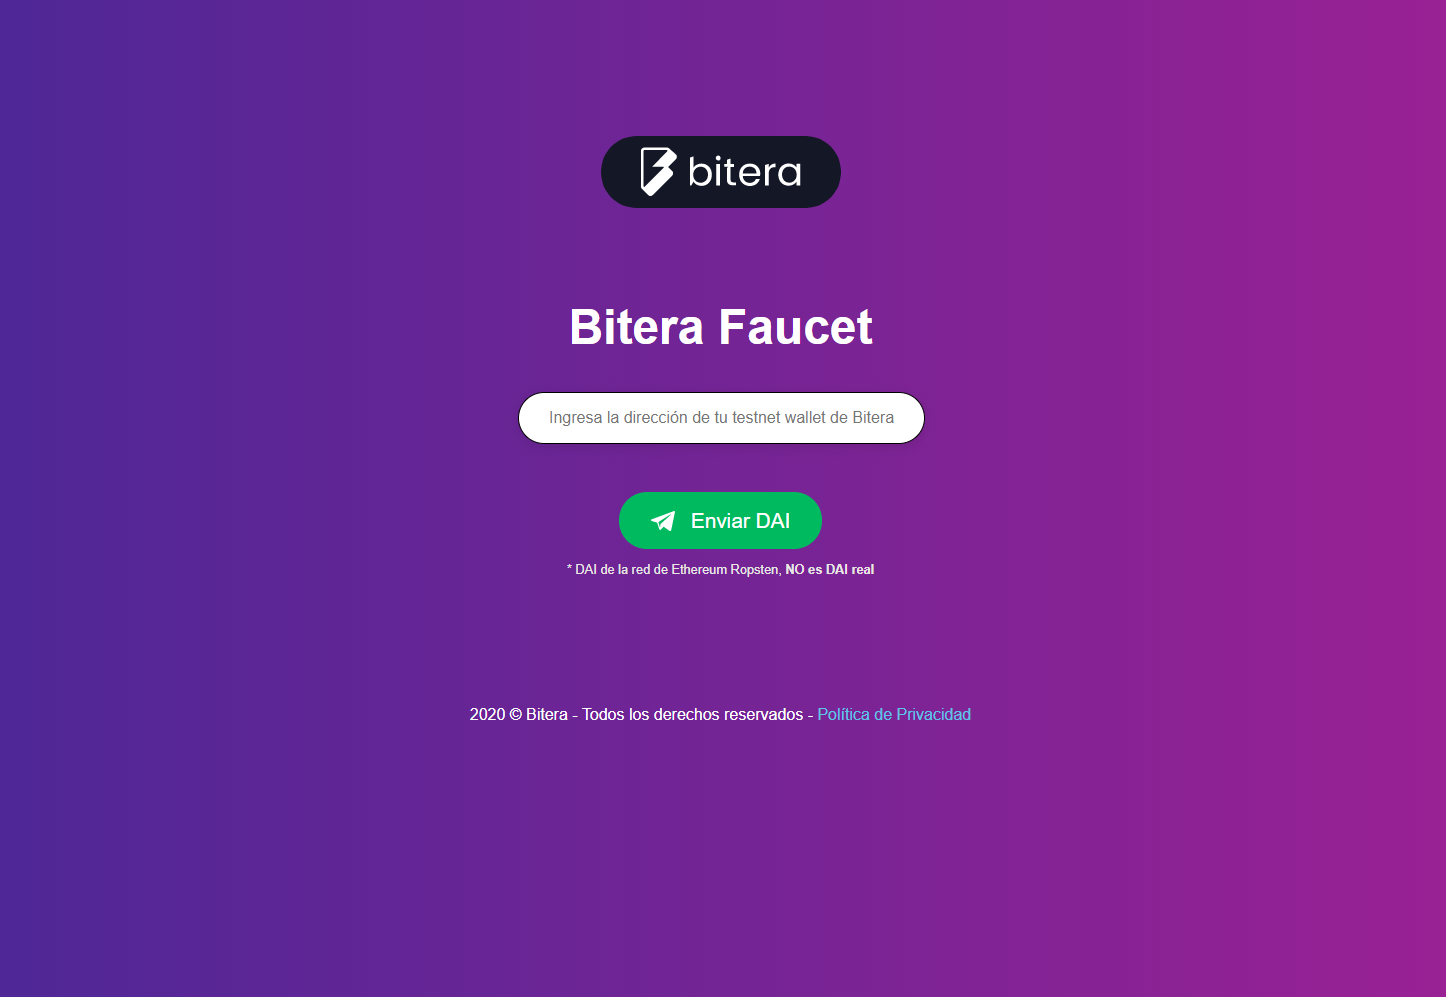
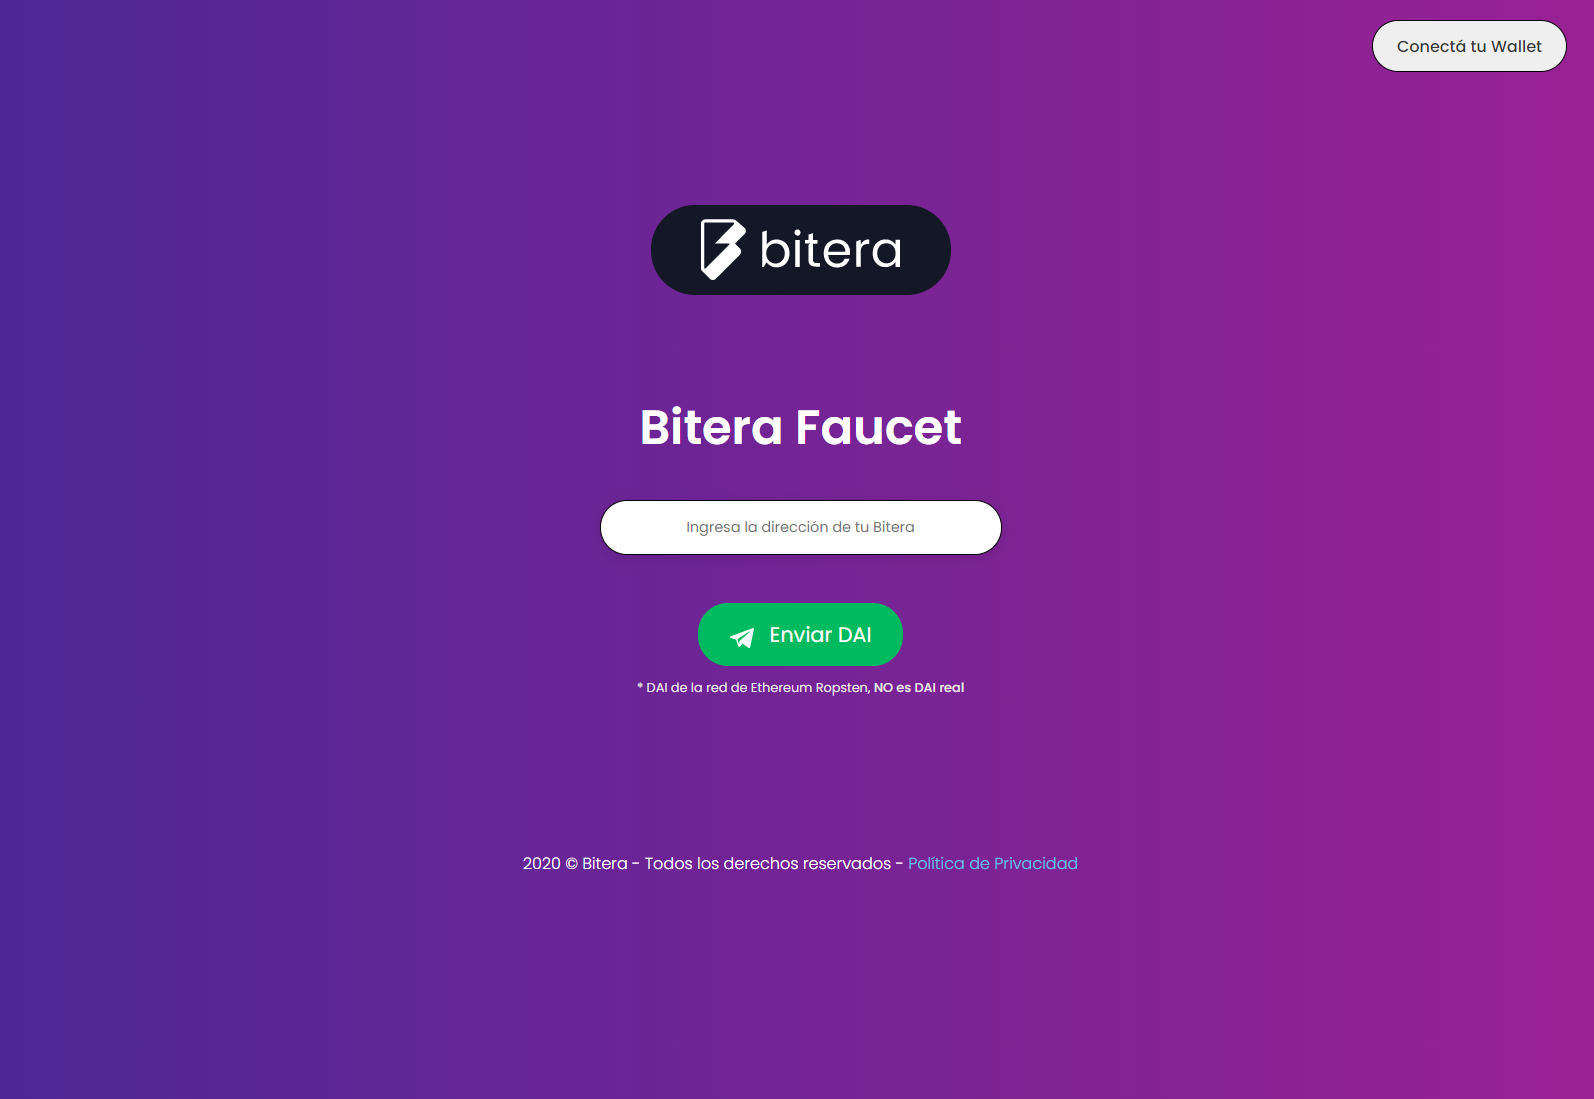
Update app screenshot

diff --git a/src/index.js b/src/index.js
@@ -16,7 +16,7 @@ const AddressInput = forwardRef(({ value, onChange }, ref) => (
     type="text"
     value={value}
     onChange={onChange}
-    placeholder="Ingresa la dirección de tu testnet wallet de Bitera"
+    placeholder="Ingresa la dirección de tu Bitera"
     ref={ref}
   />
 ));
